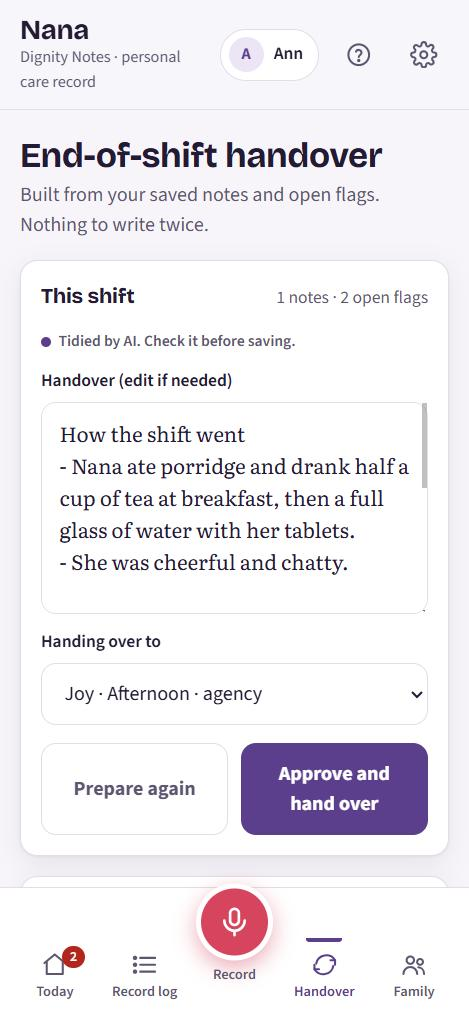
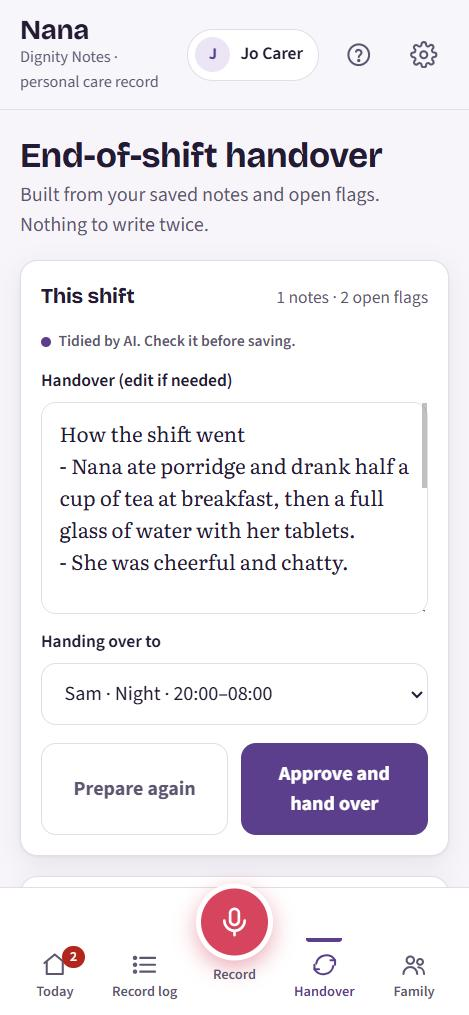
Assign carers to clients; real carers with shifts replace demo names
Privacy notice v3. Carers are identified to the app by private ids.

Changed region(s): [[0.1493, 0.6719, 0.5672, 0.7025], [0.0597, 0.0305, 0.3881, 0.0916], [0.4478, 0.0305, 0.6567, 0.0916]]

diff --git a/index.html b/index.html
@@ -316,9 +316,22 @@ function loadUser() {
     S.client = { name: session.client.name }; S.consent = session.client.consent;
     if (save() && S === old) try { localStorage.removeItem(legacy); } catch {}
   }
-  S.client = { name: session.client.name }; S.consent = session.client.consent; save();
+  // Kept with the notes too, so the client list can be shown from this phone when offline.
+  S.client = { name: session.client.name, carers: session.client.carers || [] }; S.consent = session.client.consent;
+  // The person signed in on this phone is on duty whenever the app opens, so notes carry the right name.
+  S.onDuty = myId();
+  save();
 }
-const carer = (id) => S.carers.find((c) => c.id === id) || { name: "Unknown", shift: "" };
+const myId = () => (session && (session.meId || session.username)) || "me";
+// The client's carers are real accounts, set by an administrator in Manage people (relay /clients),
+// identified by private ids rather than login usernames. Demo names (S.carers) only label example entries.
+function roster() {
+  const list = ((session && session.client && session.client.carers) || []).map((c) => ({ id: c.id, name: c.name, shift: c.shift || "" }));
+  // Someone not on the roster (e.g. an administrator visiting) is still listed, so their notes carry their own name.
+  if (!list.some((c) => c.id === myId())) list.push({ id: myId(), name: (session && (session.meName || session.name || session.username)) || "Me", shift: "", notOnRoster: true });
+  return list;
+}
+const carer = (id) => roster().find((c) => c.id === id) || S.carers.find((c) => c.id === id) || { id, name: "Unknown", shift: "" };
 const onDuty = () => carer(S.onDuty);
 const openFlags = () => S.flags.filter((f) => f.status === "open");
 const activeTransfer = () => S.transfers.find((t) => !t.backTs);
@@ -552,7 +565,7 @@ function renderLog() {
     }
     if (it.type === "out") return head + `<div class="card entry system"><div class="entry-top"><span class="t">${fmtTime(it.ts)}</span><span class="chip follow">Out of carer's care</span></div><div class="small">${esc(S.client.name)} went out with <strong>${esc(it.t.withWhom)}</strong>${it.t.relationship ? " (" + esc(it.t.relationship) + ")" : ""}${it.t.purpose ? " for " + esc(it.t.purpose) : ""}. Logged by ${esc(carer(it.t.carerId).name)}.</div></div>`;
     if (it.type === "back") return head + `<div class="card entry system"><div class="entry-top"><span class="t">${fmtTime(it.ts)}</span><span class="chip accent">Back in carer's care</span></div><div class="small">Returned from ${esc(it.t.withWhom)}.${it.t.backNote ? " " + esc(it.t.backNote) : ""}</div></div>`;
-    return head + `<div class="card entry system"><div class="entry-top"><span class="t">${fmtTime(it.ts)}</span><span class="chip accent">Handover</span><span class="muted">${esc(carer(it.h.fromId).name)} → ${esc(carer(it.h.toId).name)}</span></div><details><summary>Read handover</summary><p class="small" style="white-space:pre-line;margin:0">${esc(it.h.text)}</p></details></div>`;
+    return head + `<div class="card entry system"><div class="entry-top"><span class="t">${fmtTime(it.ts)}</span><span class="chip accent">Handover</span><span class="muted">${esc(carer(it.h.fromId).name)} → ${esc(it.h.toId ? carer(it.h.toId).name : "next carer")}</span></div><details><summary>Read handover</summary><p class="small" style="white-space:pre-line;margin:0">${esc(it.h.text)}</p></details></div>`;
   }).join("");
   v.innerHTML = `<div class="hello"><h2>Record log</h2><p>Every saved note, outing and handover, newest first.</p></div>
     <div class="seg" role="group" aria-label="Filter">${[["all", "Everything"], ["incident", "Incidents"], ["follow", "Follow-ups"]].map(([k, l]) => `<button data-f="${k}" aria-pressed="${logFilter === k}">${l}</button>`).join("")}</div>
@@ -569,27 +582,29 @@ let handoverDraft = null;
 function renderHandover() {
   const v = $("#view-handover");
   const past = [...S.handovers].sort((a, b) => b.ts - a.ts).slice(0, 5);
-  const others = S.carers.filter((c) => c.id !== S.onDuty);
+  const others = roster().filter((c) => c.id !== S.onDuty);
   v.innerHTML = `<div class="hello"><h2>End-of-shift handover</h2><p>Built from your saved notes and open flags. Nothing to write twice.</p></div>
     <div class="card">
       <div class="card-h"><h3>This shift</h3><span class="muted small">${shiftNotes().length} notes · ${openFlags().length} open flags</span></div>
       ${handoverDraft ? `
         ${sourceTag(handoverDraft.source, handoverDraft.reason)}
         <label class="f" style="margin-top:10px">Handover (edit if needed)<textarea id="hoText" class="note-edit">${esc(handoverDraft.text)}</textarea></label>
-        <label class="f" style="margin-top:12px">Handing over to<select id="hoTo">${others.map((c) => `<option value="${c.id}">${esc(c.name)} · ${esc(c.shift)}</option>`).join("")}</select></label>
+        ${others.length ? `<label class="f" style="margin-top:12px">Handing over to<select id="hoTo">${others.map((c) => `<option value="${esc(c.id)}">${esc(c.name)}${c.shift ? " · " + esc(c.shift) : ""}</option>`).join("")}</select></label>`
+          : `<p class="small muted" style="margin:12px 0 0">No other carers are on ${esc(S.client.name)} yet. The handover is saved for the next carer. An administrator can add carers in Manage people.</p>`}
         <div class="row" style="margin-top:14px"><button class="btn ghost" id="hoRedo">Prepare again</button><button class="btn primary" id="hoSave">Approve and hand over</button></div>`
       : `<p class="small muted" style="margin:0 0 12px">When your shift ends, prepare the handover. You can edit it before approving.</p>
         <button class="btn primary block" id="hoPrep">Prepare handover</button>`}
     </div>
     <div class="card"><div class="card-h"><h3>Recent handovers</h3></div><div class="list">
-      ${past.map((h) => `<div class="item"><div class="when">${fmtTime(h.ts)}</div><div class="body"><div class="small"><strong>${esc(carer(h.fromId).name)} → ${esc(carer(h.toId).name)}</strong> <span class="muted">· ${dayLabel(h.ts)}</span></div><details><summary>Read</summary><p class="small" style="white-space:pre-line;margin:0">${esc(h.text)}</p></details></div></div>`).join("") || '<div class="empty">None yet.</div>'}</div></div>`;
+      ${past.map((h) => `<div class="item"><div class="when">${fmtTime(h.ts)}</div><div class="body"><div class="small"><strong>${esc(carer(h.fromId).name)} → ${esc(h.toId ? carer(h.toId).name : "next carer")}</strong> <span class="muted">· ${dayLabel(h.ts)}</span></div><details><summary>Read</summary><p class="small" style="white-space:pre-line;margin:0">${esc(h.text)}</p></details></div></div>`).join("") || '<div class="empty">None yet.</div>'}</div></div>`;
+  if ($("#hoText")) $("#hoText").oninput = (e) => { handoverDraft.text = e.target.value; };
   const prep = async (btn) => { btn.disabled = true; btn.innerHTML = '<span class="spinner" style="width:20px;height:20px;border-width:3px"></span> Preparing…'; handoverDraft = await summarise("handover"); renderHandover(); };
   if ($("#hoPrep")) $("#hoPrep").onclick = (e) => prep(e.currentTarget);
   if ($("#hoRedo")) $("#hoRedo").onclick = (e) => prep(e.currentTarget);
   if ($("#hoSave")) $("#hoSave").onclick = () => {
-    const toId = $("#hoTo").value; const text = $("#hoText").value.trim(); if (!text) return toast("The handover is empty");
+    const toId = $("#hoTo") ? $("#hoTo").value : null; const text = $("#hoText").value.trim(); if (!text) return toast("The handover is empty");
     S.handovers.push({ id: uid(), ts: Date.now(), fromId: S.onDuty, toId, text, source: handoverDraft.source });
-    S.onDuty = toId; handoverDraft = null; save(); go("today"); toast(`Handed over to ${carer(toId).name}`);
+    handoverDraft = null; save(); go("today"); toast(toId ? `Handed over to ${carer(toId).name}` : "Handover saved for the next carer");
   };
 }
 
@@ -645,8 +660,8 @@ const sheetHead = (title) => `<div class="sheet-h"><h2>${title}</h2><button clas
 
 function openCarerSheet() {
   const s = sheet(`${sheetHead("Who's on duty?")}
-    <div class="list card">${S.carers.map((c) => `<button class="item" data-c="${c.id}" style="border-left:0;border-right:0;border-bottom:0;background:none;text-align:left;width:100%;align-items:center"><span class="avatar">${esc(c.name.charAt(0))}</span><span class="body"><strong>${esc(c.name)}</strong><div class="small muted">${esc(c.shift)}</div></span>${c.id === S.onDuty ? '<span class="chip accent">On duty</span>' : ""}</button>`).join("")}</div>
-    <p class="small muted" style="margin:0">Every note is stamped with the carer on duty. Use Handover at the end of a shift to pass on properly.</p>`);
+    <div class="list card">${roster().map((c) => `<button class="item" data-c="${esc(c.id)}" style="border-left:0;border-right:0;border-bottom:0;background:none;text-align:left;width:100%;align-items:center"><span class="avatar">${esc(c.name.charAt(0))}</span><span class="body"><strong>${esc(c.name)}</strong><div class="small muted">${esc(c.shift || "No shift set")}</div></span>${c.id === S.onDuty ? '<span class="chip accent">On duty</span>' : ""}</button>`).join("")}</div>
+    <p class="small muted" style="margin:0">Every note is stamped with the carer on duty. Use Handover at the end of a shift to pass on properly. Who cares for ${esc(S.client.name)} is set by an administrator in Manage people.</p>`);
   s.root.querySelectorAll("[data-c]").forEach((b) => (b.onclick = () => { S.onDuty = b.dataset.c; save(); s.close(); render(); toast(`${onDuty().name} is now on duty`); }));
 }
 
@@ -700,9 +715,11 @@ function openSettings() {
     <div class="card" style="display:grid;gap:12px"><h3 style="font-size:17px">Client</h3>
       <p class="small" style="margin:0">Notes are for <strong>${esc(S.client.name)}</strong>.</p>
       <button class="btn secondary" id="stSwitch">Switch or add client</button></div>
-    <div class="card" style="display:grid;gap:12px"><h3 style="font-size:17px">Carers</h3>
-      ${S.carers.map((x, i) => `<div class="row"><label class="f" style="flex:1 1 120px">Carer ${i + 1}<input type="text" data-cn="${x.id}" value="${esc(x.name)}" autocomplete="off"></label><label class="f" style="flex:1 1 160px">Shift<input type="text" data-cs="${x.id}" value="${esc(x.shift)}" autocomplete="off"></label></div>`).join("")}
-      <button class="btn secondary" id="stPeople">Save names</button></div>
+    <div class="card" style="display:grid;gap:12px"><h3 style="font-size:17px">Carers for ${esc(S.client.name)}</h3>
+      ${roster().filter((x) => !x.notOnRoster).map((x) => `<label class="f">${esc(x.name)}<input type="text" data-cs="${esc(x.id)}" data-was="${esc(x.shift)}" value="${esc(x.shift)}" placeholder="Shift, e.g. Day · 08:00–20:00" maxlength="40" autocomplete="off"></label>`).join("") || `<p class="small muted" style="margin:0">No carers are on ${esc(S.client.name)} yet.</p>`}
+      ${roster().some((x) => x.notOnRoster) ? `<p class="tiny muted" style="margin:0">You're not one of ${esc(S.client.name)}'s carers, so you aren't listed here.</p>` : ""}
+      ${roster().some((x) => !x.notOnRoster) ? '<button class="btn secondary" id="stPeople">Save shifts</button>' : ""}
+      ${session.role === "admin" ? `<button class="link" id="stWho" style="justify-self:start">Change who cares for ${esc(S.client.name)}</button>` : `<p class="tiny muted" style="margin:0">An administrator decides who cares for ${esc(S.client.name)}.</p>`}</div>
     <div class="card small"><h3 style="font-size:17px;margin-bottom:6px">Consent</h3>
       ${c ? `Agreed by <strong>${esc(c.name)}</strong> (${esc(c.role)}) on ${fmtDay(c.ts)} at ${fmtTime(c.ts)}.` : "Not recorded."}
       <p class="muted" style="margin:8px 0 0">Notes and recordings are kept on this phone only in this demo. Only the words of a note (never the recording) are sent to the AI to tidy.</p></div>
@@ -723,10 +740,18 @@ function openSettings() {
     s.close(); signedOut("You've signed out.");
   });
   $("#stSwitch").onclick = () => { s.close(); handoverDraft = familySummary = null; showClients(true); };
-  $("#stPeople").onclick = () => {
-    s.root.querySelectorAll("[data-cn]").forEach((i) => (carer(i.dataset.cn).name = i.value.trim() || carer(i.dataset.cn).name));
-    s.root.querySelectorAll("[data-cs]").forEach((i) => (carer(i.dataset.cs).shift = i.value.trim()));
-    save(); render(); toast("Saved");
+  if ($("#stWho")) $("#stWho").onclick = () => { s.close(); openTesters(); };
+  if ($("#stPeople")) $("#stPeople").onclick = async (e) => {
+    // Only what this person changed, so an older view doesn't overwrite someone else's update.
+    const shifts = {}; s.root.querySelectorAll("[data-cs]").forEach((i) => { if (i.value.trim() !== i.dataset.was) shifts[i.dataset.cs] = i.value.trim(); });
+    if (!Object.keys(shifts).length) return toast("Nothing changed");
+    const btn = e.currentTarget; btn.disabled = true;
+    try {
+      if (session.local) session.client.carers = roster().filter((c) => !c.notOnRoster).map((c) => ({ id: c.id, name: c.name, shift: shifts[c.id] ?? c.shift }));
+      else session.client.carers = (await relay("/clients/shifts", { id: session.client.id, shifts })).client.carers;
+      saveSession(); loadUser(); render(); toast("Shifts saved");
+    } catch (err) { toast(err.message); }
+    btn.disabled = false;
   };
   $("#stReset").onclick = () => { $("#stResetYes").hidden = false; };
   $("#stResetYes").onclick = async () => { const keep = S.settings; await audioDB.del(S.notes.map((n) => n.audioId).filter(Boolean)); S = seed(); S.settings = keep; save(); loadUser(); s.close(); handoverDraft = familySummary = null; go("today"); };
@@ -858,9 +883,9 @@ async function openReview({ transcript, blob, typed }) {
 }
 
 /* ---------- privacy notice ---------- */
-const PRIVACY_VERSION = "2026-10-04.2";
+const PRIVACY_VERSION = "2026-10-04.3";
 const PRIVACY_HTML = `
-<p class="small muted" style="margin:0">Version 2 · 4 October 2026 · Pilot</p>
+<p class="small muted" style="margin:0">Version 3 · 4 October 2026 · Pilot</p>
 <h3>Who we are</h3>
 <p>Dignity Notes is owned and operated by <strong>Workgroup (WA) Pty Ltd</strong> ("we", "us"). We decide how the personal information described here is used. This version of Dignity Notes is a <strong>pilot for evaluation only</strong>.</p>
 <h3>Important: use fictional information only</h3>
@@ -871,16 +896,17 @@ const PRIVACY_HTML = `
 <li><strong>Sign-in records:</strong> the time of each sign-in attempt, your IP address, your approximate location worked out from that address (town and country), your type of device and browser, and a random ID that this app stores on your device. We use these to keep accounts secure and to detect when a login is shared or used on another device.</li>
 <li><strong>Your agreement:</strong> when you accepted this notice.</li>
 <li><strong>Clients:</strong> the name of each person being cared for, and the name and role of the person who agreed to Dignity Notes being used, with the date. This is kept on our relay so every carer sees the same agreement.</li>
+<li><strong>Carers for each client:</strong> which clients you care for, and your shift times for each. Administrators set who cares for whom. The other carers on the same client can see your name and shift.</li>
 <li><strong>Feedback:</strong> if you report a problem or suggest an idea, your messages and the helper's replies, any screenshot you add, your name, username and role, which screen and page you were on, and the summary and analysis the AI writes for the developer. A screenshot shows whatever was on your screen, so avoid screens that show care notes.</li>
 </ul>
 <h3>What stays on your device</h3>
 <p>Care notes, voice recordings, handovers, messages and settings are kept <strong>on your device only</strong>. We don't receive them, except as described below. Deleting the app's data on your device, or tapping Reset demo, removes them.</p>
 <h3>AI note writing</h3>
 <p>When you use the feedback helper, your messages and any screenshot are also sent to Anthropic, so the helper can ask questions and write a summary for the developer. Email addresses and phone numbers are removed automatically before a report is stored.</p>
-<p>When you ask the app to write a note, handover or summary, the <strong>words</strong> of your note (never the recording) are sent through our secure relay to <strong>Anthropic</strong>, which provides the Claude AI service, to be tidied. Our relay doesn't keep the text. Anthropic processes it under its commercial terms, which don't allow it to train its AI models on this data.</p>
+<p>When you ask the app to write a note, handover or summary, the <strong>words</strong> of your note (never the recording), and the names of the carers involved, are sent through our secure relay to <strong>Anthropic</strong>, which provides the Claude AI service, to be tidied. Our relay doesn't keep the text. Anthropic processes it under its commercial terms, which don't allow it to train its AI models on this data.</p>
 <h3>Who else handles data for us</h3>
 <ul>
-<li><strong>Cloudflare:</strong> runs our relay and stores accounts, sign-in records, clients and feedback reports.</li>
+<li><strong>Cloudflare:</strong> runs our relay and stores accounts, sign-in records, clients, who cares for each client and their shifts, and feedback reports.</li>
 <li><strong>GitHub (Microsoft):</strong> hosts the app's web pages.</li>
 <li><strong>Anthropic:</strong> AI note writing, as described above.</li>
 </ul>
@@ -896,7 +922,7 @@ const PRIVACY_HTML = `
 <li><strong>Clients:</strong> until an administrator removes the client. A record of who removed it and when is kept.</li>
 </ul>
 <h3>Who can see your information</h3>
-<p>Pilot administrators can see the people list, which devices each account has used, the sign-in history and feedback reports. They can't see the notes on your device, unless a note appears in a screenshot you send with feedback.</p>
+<p>Pilot administrators can see the people list, who cares for each client, which devices each account has used, the sign-in history and feedback reports. Carers on the same client see each other's names and shifts. They can't see the notes on your device, unless a note appears in a screenshot you send with feedback.</p>
 <h3>Your rights</h3>
 <p>You can ask to see, correct or delete the information we hold about you, or object to how we use it. Ask the administrator who invited you, who will pass your request to Workgroup (WA) Pty Ltd. If you're unhappy, you can complain to the UK Information Commissioner's Office (ico.org.uk) or, in Australia, the Office of the Australian Information Commissioner (oaic.gov.au).</p>
 <h3>Changes</h3>
@@ -1008,7 +1034,7 @@ function loginText(username, password) {
 }
 function openTesters() {
   const s = sheet(`${sheetHead("People")}
-    <p class="small muted" style="margin:0">People you add can sign in on their own phone and try the app. Their notes stay on their phone. Removing someone signs them out straight away.</p>
+    <p class="small muted" style="margin:0">People you add can sign in on their own phone and try the app. Tick the clients each person cares for: carers only see those clients. Their notes stay on their phone. Removing someone signs them out straight away.</p>
     <div class="card"><div class="list" id="tList"><div class="empty">Loading people…</div></div></div>
     <div class="card"><div class="card-h"><h3>Sign-in history</h3><span class="muted small">Last 90 days</span></div>
       <div class="list" id="tLog"><div class="empty">Loading…</div></div>
@@ -1031,7 +1057,7 @@ function openTesters() {
   };
   const load = async () => {
     try {
-      const { users } = await relay("/admin/users", {});
+      const { users, clients = [] } = await relay("/admin/users", {});
       listEl.innerHTML = users.length ? users.sort((a, b) => a.name.localeCompare(b.name)).map((u) => `<div class="item" style="flex-wrap:wrap">
         <span class="avatar">${esc((u.name || u.username).charAt(0).toUpperCase())}</span>
         <div class="body" style="flex:1 1 220px"><strong>${esc(u.name || u.username)}</strong>${u.role === "admin" ? ' <span class="chip accent">Admin</span>' : ""}
@@ -1039,11 +1065,23 @@ function openTesters() {
           ${u.locked ? '<span class="chip follow">Locked to first device</span>' : ""}
           <div class="small muted">${esc(u.username)}${u.createdAt ? " · added " + esc(new Date(u.createdAt).toLocaleDateString("en-GB")) : ""} · ${u.agreedAt ? "privacy notice accepted " + esc(new Date(u.agreedAt).toLocaleDateString("en-GB")) : "privacy notice not yet accepted"}</div>
           ${u.devices.length ? `<details style="margin-top:4px"><summary>Devices</summary>${u.devices.map((d, i) => `<div class="small" style="padding:4px 0"><strong>${i === 0 ? "Home device" : "Other device"}:</strong> ${esc(d.device)} · ${esc(d.place)}<br><span class="tiny muted">First ${esc(new Date(d.first).toLocaleString("en-GB"))} · last ${esc(new Date(d.last).toLocaleString("en-GB"))}</span></div>`).join("")}</details>` : ""}
-          <label class="check small" style="margin-top:6px"><input type="checkbox" data-lock="${esc(u.username)}" ${u.locked ? "checked" : ""}><span>Lock to first device (refuse sign-ins from any other device)</span></label>
+          <div class="small" style="margin-top:8px"><strong>Cares for</strong>${u.role === "admin" ? ' <span class="muted">(administrators can open every client)</span>' : ""}
+            <div class="chips" style="margin-top:4px">${clients.length ? clients.map((c) => `<label class="chip" style="display:inline-flex;gap:6px;align-items:center;cursor:pointer"><input type="checkbox" data-assign="${esc(u.username)}" value="${esc(c.id)}" ${u.clients.includes(c.id) ? "checked" : ""} style="accent-color:var(--accent)">${esc(c.name)}</label>`).join("") : '<span class="muted">No clients yet</span>'}</div></div>
+          ${u.main ? '<p class="tiny muted" style="margin:6px 0 0">Main administrator: signs in with the relay settings, so the password and device lock aren\'t managed here.</p>' : `<label class="check small" style="margin-top:6px"><input type="checkbox" data-lock="${esc(u.username)}" ${u.locked ? "checked" : ""}><span>Lock to first device (refuse sign-ins from any other device)</span></label>`}
           ${u.devices.length ? `<button class="link small" data-devreset="${esc(u.username)}">Reset devices (next sign-in becomes the home device)</button>` : ""}</div>
-        <button class="link" data-reset="${esc(u.username)}">New password</button>
-        <button class="link" style="color:var(--record)" data-remove="${esc(u.username)}">Remove</button>
+        ${u.main ? "" : `<button class="link" data-reset="${esc(u.username)}">New password</button>
+        <button class="link" style="color:var(--record)" data-remove="${esc(u.username)}">Remove</button>`}
         <div data-slot="${esc(u.username)}" style="flex-basis:100%"></div></div>`).join("") : '<div class="empty">No testers yet. Add the first one below.</div>';
+      listEl.querySelectorAll("[data-assign]").forEach((c) => (c.onchange = async () => {
+        const who = c.dataset.assign; const boxes = [...listEl.querySelectorAll("[data-assign]")];
+        const ids = boxes.filter((x) => x.dataset.assign === who && x.checked).map((x) => x.value);
+        boxes.forEach((x) => (x.disabled = true)); // one change at a time, so two quick ticks can't overwrite each other
+        try {
+          await relay("/admin/assign", { username: who, clientIds: ids }); toast("Saved");
+          if (session.client && c.value === session.client.id) checkClient(); // the client open on this phone changed
+        } catch (e) { toast(e.message); c.checked = !c.checked; }
+        boxes.forEach((x) => (x.disabled = false));
+      }));
       listEl.querySelectorAll("[data-remove]").forEach((b) => (b.onclick = () => confirmInline(b, async () => {
         try { await relay("/admin/remove", { username: b.dataset.remove }); toast("Removed"); load(); } catch (e) { toast(e.message); }
       })));
@@ -1271,9 +1309,14 @@ async function openFeedbackReport(id) {
 const LOCAL_CLIENTS = "dignitynotes.localclients";
 const localClients = () => { try { return JSON.parse(localStorage.getItem(LOCAL_CLIENTS) || "[]"); } catch { return []; } };
 const clientsApi = {
-  list: async () => (session.local ? localClients() : (await relay("/clients", {})).clients),
+  list: async () => {
+    if (session.local) return localClients();
+    const out = await relay("/clients", {});
+    if (session && out.meId) { session.meId = out.meId; session.meName = out.meName; saveSession(); }
+    return out.clients;
+  },
   add: async (name, consent) => {
-    if (!session.local) return (await relay("/clients/add", { name, consent })).client;
+    if (!session.local) { const out = await relay("/clients/add", { name, consent }); if (out.meId) session.meId = out.meId; return out.client; }
     const client = { id: uid(), name, consent: { name: consent.name, role: consent.role, ts: Date.now(), by: session.username }, createdAt: Date.now(), createdBy: session.username };
     localStorage.setItem(LOCAL_CLIENTS, JSON.stringify([...localClients(), client]));
     return client;
@@ -1286,9 +1329,9 @@ function savedClients() {
   try {
     for (let i = 0; i < localStorage.length; i++) {
       const k = localStorage.key(i);
-      if (!k.startsWith(prefix)) continue;
+      if (!k.startsWith(prefix) || k.slice(prefix.length).includes(".")) continue;
       const d = JSON.parse(localStorage.getItem(k));
-      if (d && d.client && d.consent) out.push({ id: k.slice(prefix.length), name: d.client.name, consent: d.consent });
+      if (d && d.client && d.consent) out.push({ id: k.slice(prefix.length), name: d.client.name, consent: d.consent, carers: d.client.carers || [] });
     }
   } catch {}
   return out.sort((a, b) => a.name.localeCompare(b.name));
@@ -1298,13 +1341,19 @@ async function checkClient() {
   if (!session || !session.client || !navigator.onLine) return;
   let clients;
   try { clients = await clientsApi.list(); } catch { return; }
-  if (session && session.client && !clients.some((c) => c.id === session.client.id)) {
-    toast(`${session.client.name} has been removed by an administrator`);
+  if (!session || !session.client) return;
+  const fresh = clients.find((c) => c.id === session.client.id);
+  if (!fresh) {
+    toast(`You're no longer a carer for ${session.client.name}, or it was removed`);
     session.client = null; saveSession(); KEY = null; S = seed(); showClients(false);
+  } else if (JSON.stringify(fresh.carers) !== JSON.stringify(session.client.carers) || fresh.name !== session.client.name) {
+    // Carers or shifts changed elsewhere (e.g. an administrator assigned someone): pick that up.
+    session.client = { id: fresh.id, name: fresh.name, consent: fresh.consent, carers: fresh.carers || [] };
+    saveSession(); loadUser(); render();
   }
 }
 function chooseClient(client) {
-  session.client = { id: client.id, name: client.name, consent: client.consent };
+  session.client = { id: client.id, name: client.name, consent: client.consent, carers: client.carers || [] };
   saveSession(); loadUser(); $("#fullRoot").innerHTML = ""; go("today");
 }
 // manual = opened from Settings; otherwise a single client is picked automatically.
@@ -1365,7 +1414,8 @@ async function showClients(manual) {
   listEl.innerHTML = clients.length ? clients.map((c) => `<button class="item" data-client="${esc(c.id)}" style="width:100%;text-align:left;background:none;border:0;cursor:pointer">
       <span class="avatar">${esc(c.name.charAt(0).toUpperCase())}</span>
       <div class="body"><strong>${esc(c.name)}</strong>${session.client && session.client.id === c.id ? ' <span class="chip accent">Current</span>' : ""}
-        <div class="small muted">Agreed by ${esc(c.consent.name)} (${esc(c.consent.role)}) on ${fmtDay(c.consent.ts)}</div></div></button>`).join("")
+        <div class="small muted">Agreed by ${esc(c.consent.name)} (${esc(c.consent.role)}) on ${fmtDay(c.consent.ts)}</div>
+        ${(c.carers || []).length ? `<div class="tiny muted">Carers: ${c.carers.map((x) => esc(x.name)).join(", ")}</div>` : ""}</div></button>`).join("")
     : '<div class="empty">No clients yet. Add the first one below.</div>';
   if (offline) listEl.insertAdjacentHTML("afterbegin", '<div class="warn small">No connection. Showing clients already on this phone.</div>');
   listEl.querySelectorAll("[data-client]").forEach((b) => (b.onclick = () => { handoverDraft = familySummary = null; chooseClient(clients.find((c) => c.id === b.dataset.client)); }));

diff --git a/manual.html b/manual.html
@@ -181,14 +181,15 @@ footer{color:var(--ink-2);font-size:14px;text-align:center;margin-top:30px}
 <!-- 3 -->
 <section class="s" id="client">
   <h2><span class="n">3</span>Choosing who you care for</h2>
-  <p class="lede">After signing in, choose the person you're caring for (the "client"). If there's only one, the app opens them straight away.</p>
+  <p class="lede">After signing in, choose the person you're caring for (the "client"). You only see the clients an administrator has put you on. If there's only one, the app opens them straight away.</p>
   <div class="step"><div>
     <h3>Pick a client</h3>
     <ol>
       <li>Under <strong>Who are you caring for?</strong>, tap the person's name.</li>
       <li>The app opens their Today screen.</li>
     </ol>
-    <p>Each client shows who agreed to Dignity Notes being used, and when. That agreement was given once, when the client was added, so you won't be asked for it again.</p>
+    <p>Each client shows who agreed to Dignity Notes being used, and when, and which carers look after them. That agreement was given once, when the client was added, so you won't be asked for it again.</p>
+    <p>Someone missing from your list? Ask your administrator to add you to that client.</p>
     <p class="tip">To change client later, go to <strong>Settings</strong> (the cog, top right), then <strong>Switch or add client</strong>.</p>
   </div><figure><img src="manual/04-choose-client.jpg" alt="Client list showing Arthur and Nana, each with who agreed and when" loading="lazy" width="469" height="1015"><figcaption>Choose who you're caring for</figcaption></figure></div>
   <div class="step"><div>
@@ -201,7 +202,7 @@ footer{color:var(--ink-2);font-size:14px;text-align:center;margin-top:30px}
       <li>Type the <strong>name of the person agreeing</strong> and choose who they are: the client, their attorney, or another authorised family member.</li>
       <li>Tick the agreement box and tap <span class="btnref p">Add client and start</span>.</li>
     </ol>
-    <p>The agreement is saved once, for everyone. Every carer who signs in will see it.</p>
+    <p>The agreement is saved once, for everyone. You're added as the client's carer automatically, and an administrator can add the other carers.</p>
   </div><figure><img src="manual/05-add-client.jpg" alt="New client form with client's name, explanation, name of the person agreeing, who they are, and agreement tick box" loading="lazy" width="469" height="1015"><figcaption>Adding a client records their agreement</figcaption></figure></div>
 </section>
 
@@ -348,16 +349,16 @@ footer{color:var(--ink-2);font-size:14px;text-align:center;margin-top:30px}
 <!-- 11 -->
 <section class="s" id="duty">
   <h2><span class="n">11</span>Who's on duty</h2>
-  <p class="lede">Every note is stamped with the carer on duty, so make sure it's you.</p>
+  <p class="lede">Every note is stamped with the carer on duty. When you open the app, that's you.</p>
   <div class="step"><div>
     <h3>Change the carer on duty</h3>
     <ol>
-      <li>Tap the name button at the top (for example <strong>Ann</strong>).</li>
-      <li>Tap your name.</li>
+      <li>Tap the name button at the top.</li>
+      <li>Tap the carer who is now on duty. This is only needed when carers share one phone.</li>
     </ol>
-    <p>At the end of a shift, use <a href="#handover">Handover</a> instead: it passes on properly and switches the carer for you.</p>
-    <p class="tip">Carer names and shift times are set in <strong>Settings</strong>.</p>
-  </div><figure><img src="manual/18-on-duty.jpg" alt="Who's on duty list: Ann on duty, Joy, Grace" loading="lazy" width="469" height="1015"><figcaption>Choosing who's on duty</figcaption></figure></div>
+    <p>The list shows the carers an administrator has put on this client. Each time the app is opened, the person signed in is on duty again. At the end of a shift, use <a href="#handover">Handover</a> to pass on properly.</p>
+    <p class="tip">Shift times are set in <strong>Settings</strong>.</p>
+  </div><figure><img src="manual/18-on-duty.jpg" alt="Who's on duty list: Jo Carer on duty, Sam, with their shifts" loading="lazy" width="469" height="1015"><figcaption>Choosing who's on duty</figcaption></figure></div>
 </section>
 
 <!-- 12 -->
@@ -370,10 +371,12 @@ footer{color:var(--ink-2);font-size:14px;text-align:center;margin-top:30px}
       <li>Tap <strong>Handover</strong> at the bottom.</li>
       <li>Tap <span class="btnref p">Prepare handover</span>. It takes a few seconds.</li>
       <li>Read it. It has three parts: <strong>How the shift went</strong>, <strong>Concerns for the next carer</strong> and <strong>Coming up</strong>. Tap to change anything.</li>
-      <li>Under <strong>Handing over to</strong>, choose the next carer.</li>
+      <li>Under <strong>Handing over to</strong>, choose the next carer from the carers on this client.</li>
       <li>Tap <span class="btnref p">Approve and hand over</span>.</li>
     </ol>
-    <p>The next carer becomes the carer on duty and sees your handover on their Today screen. Past handovers are under <strong>Recent handovers</strong>.</p>
+    <p>The handover is saved in the record log and shown under <strong>Previous handover</strong> on the Today screen. Past handovers are under <strong>Recent handovers</strong>.</p>
+    <p>If you're the only carer on this client so far, there's no one to choose: the handover is saved for the next carer.</p>
+    <div class="callout info"><strong>In this pilot</strong>Notes and handovers stay on the phone they were made on. The next carer sees your handover if they use the same phone; otherwise, share it with them as you do now. Sharing between phones is planned for a later version.</div>
   </div><figure><img src="manual/12-handover.jpg" alt="Handover screen with the written handover, Handing over to, and Approve and hand over" loading="lazy" width="469" height="1015"><figcaption>Check, then Approve and hand over</figcaption></figure></div>
 </section>
 
@@ -410,9 +413,9 @@ footer{color:var(--ink-2);font-size:14px;text-align:center;margin-top:30px}
     <ul>
       <li><strong>Your account:</strong> shows who you're signed in as. <strong>Check AI connection</strong> tells you whether notes will be written by AI. <strong>Sign out</strong> signs you out of this phone.</li>
       <li><strong>Client:</strong> <strong>Switch or add client</strong> takes you back to the client list.</li>
-      <li><strong>Carers:</strong> change carer names and shift times, then tap <strong>Save names</strong>.</li>
+      <li><strong>Carers for</strong> the client: everyone who looks after them. Type each person's shift (for example "Day · 08:00–20:00") and tap <strong>Save shifts</strong>. Every carer on the client sees the same shifts.</li>
     </ul>
-  </div><figure><img src="manual/20-settings.jpg" alt="Settings: your account, client, carers" loading="lazy" width="469" height="1015"><figcaption>Settings, top</figcaption></figure></div>
+  </div><figure><img src="manual/20-settings.jpg" alt="Settings: your account, client, and the carers for Nana with their shifts" loading="lazy" width="469" height="1015"><figcaption>Settings, top</figcaption></figure></div>
   <div class="step"><div>
     <h3>Further down</h3>
     <ul>
@@ -459,15 +462,18 @@ footer{color:var(--ink-2);font-size:14px;text-align:center;margin-top:30px}
       <li>Go to <strong>Settings</strong>, then tap <span class="btnref p">Manage people</span>.</li>
       <li>Each person shows their username, when they were added, and whether they've accepted the privacy notice.</li>
       <li>A red <strong>⚠ 2 devices</strong> badge means the account has been used on more than one phone. Tap <strong>Devices</strong> to see which phones and where.</li>
+      <li><strong>Cares for:</strong> tick the clients each person looks after. Carers only see the clients ticked for them, and appear in that client's carers, handover and shifts. Administrators can open every client; tick a client for them too if they also do shifts.</li>
     </ol>
+    <p class="tip">From a client's <strong>Settings</strong>, <strong>Change who cares for</strong> brings you straight here.</p>
     <ul>
       <li><strong>Lock to first device:</strong> refuses sign-ins from any other phone.</li>
       <li><strong>Reset devices:</strong> the next phone they sign in on becomes their home phone.</li>
       <li><strong>New password:</strong> makes a new password for you to send them.</li>
-      <li><strong>Remove:</strong> signs them out straight away and deletes their account (tap twice to confirm).</li>
+      <li><strong>Remove:</strong> signs them out straight away, deletes their account and takes them off their clients (tap twice to confirm).</li>
     </ul>
+    <p>The main administrator (the first login, set up with the relay) also appears here so you can tick their clients. Their password and device lock are managed outside the app.</p>
     <p><strong>Sign-in history</strong> lists every sign-in from the last 90 days, including wrong passwords and blocked phones.</p>
-  </div><figure><img src="manual/24-people.jpg" alt="People list with account details, device count, lock option, new password and remove" loading="lazy" width="469" height="1015"><figcaption>The people list</figcaption></figure></div>
+  </div><figure><img src="manual/24-people.jpg" alt="People list with account details, the clients each person cares for, lock option, new password and remove" loading="lazy" width="469" height="1015"><figcaption>The people list</figcaption></figure></div>
   <div class="step"><div>
     <h3>Add a person</h3>
     <ol>
@@ -514,7 +520,9 @@ footer{color:var(--ink-2);font-size:14px;text-align:center;margin-top:30px}
   <details class="faq"><summary>I can't see notes from another carer's phone</summary>
     <p>In this pilot, notes and recordings stay on the phone that made them. The handover is how information passes between carers. Sharing notes between phones is planned for a later version.</p></details>
   <details class="faq"><summary>The client I was using has disappeared</summary>
-    <p>An administrator has removed that client, for example because the agreement was withdrawn. The app takes you back to the client list. Speak to your administrator.</p></details>
+    <p>An administrator has taken you off that client, or removed the client, for example because the agreement was withdrawn. The app takes you back to the client list. Speak to your administrator.</p></details>
+  <details class="faq"><summary>A client I care for isn't in my list</summary>
+    <p>You haven't been added to that client yet. Ask your administrator to tick the client for you in <strong>Manage people</strong>. It appears the next time you open the app.</p></details>
   <details class="faq"><summary>Who can see what I record?</summary>
     <p>Notes and recordings stay on your phone. Only the <strong>words</strong> of a note (never the recording) are sent to the AI to be tidied, and they aren't kept. Administrators can see the list of people, sign-ins and feedback reports, but not your notes. The exception is a screenshot you choose to send with feedback: the administrators and the AI helper see whatever it shows. Read the full privacy notice in <strong>Settings</strong>.</p></details>
   <details class="faq"><summary>Something else is wrong</summary>

diff --git a/sw.js b/sw.js
@@ -1,5 +1,5 @@
 // Offline shell: network first (4 s timeout), cached copy when there is no or weak signal.
-const CACHE = "dignitynotes-v40";
+const CACHE = "dignitynotes-v42";
 self.addEventListener("install", (e) => { e.waitUntil(caches.open(CACHE).then((c) => c.addAll(["./", "./index.html", "./manual.html", "./icon-192.png", "./logo-wordmark.png", "./manifest.json"]))); self.skipWaiting(); });
 self.addEventListener("activate", (e) => { e.waitUntil(caches.keys().then((ks) => Promise.all(ks.filter((k) => k !== CACHE).map((k) => caches.delete(k))))); self.clients.claim(); });
 self.addEventListener("fetch", (e) => {
